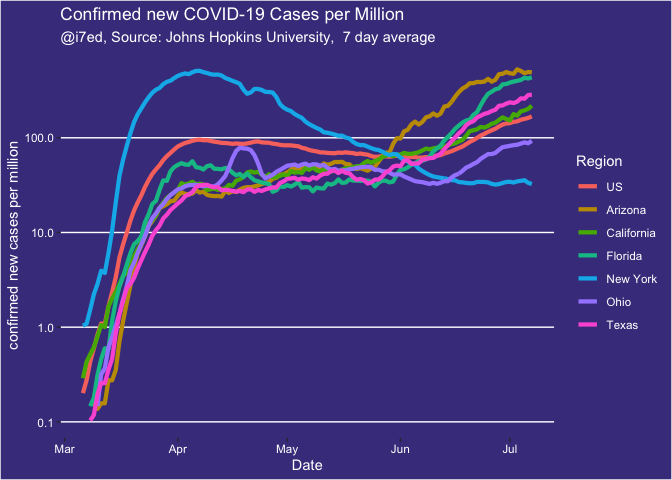
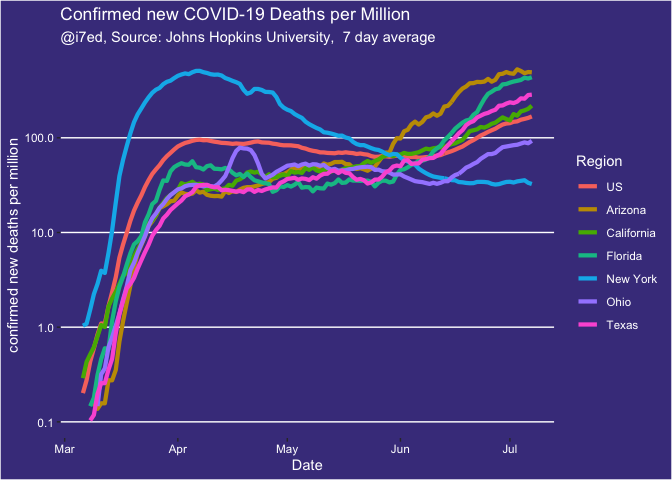
add c19 death charts

Changed region(s): [[0.0, 0.2812, 0.0312, 0.75], [0.4062, 0.0, 0.625, 0.0625]]

diff --git a/README.md b/README.md
@@ -3,6 +3,14 @@ report-COVID-19
 Thomas Gredig
 7/12/2020
 
+  - [COVID-19](#covid-19)
+  - [Confirmed COVID-19 Cases](#confirmed-covid-19-cases)
+      - [World](#world)
+      - [United States](#united-states)
+  - [COVID-19 DEATHS](#covid-19-deaths)
+      - [World](#world-1)
+      - [U.S.](#u.s.)
+
 # COVID-19
 
 We are comparing the growth rates in different regions.
@@ -35,3 +43,21 @@ Japan and U.S.
 Some selected regions within the U.S.
 
 ![](README_files/figure-gfm/unnamed-chunk-7-1.png)<!-- -->
+
+# COVID-19 DEATHS
+
+## World
+
+Statistics of some of the larger countries including Brazil:
+
+![](README_files/figure-gfm/unnamed-chunk-10-1.png)<!-- -->
+
+## U.S.
+
+Statistics of selected U.S. states
+
+![](README_files/figure-gfm/unnamed-chunk-11-1.png)<!-- -->
+
+The 3 most populous states in the U.S.
+
+![](README_files/figure-gfm/unnamed-chunk-12-1.png)<!-- -->
